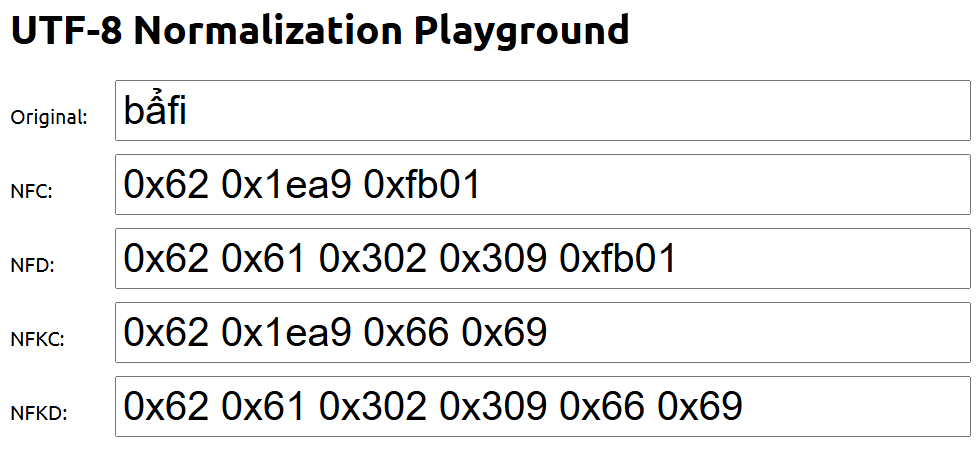
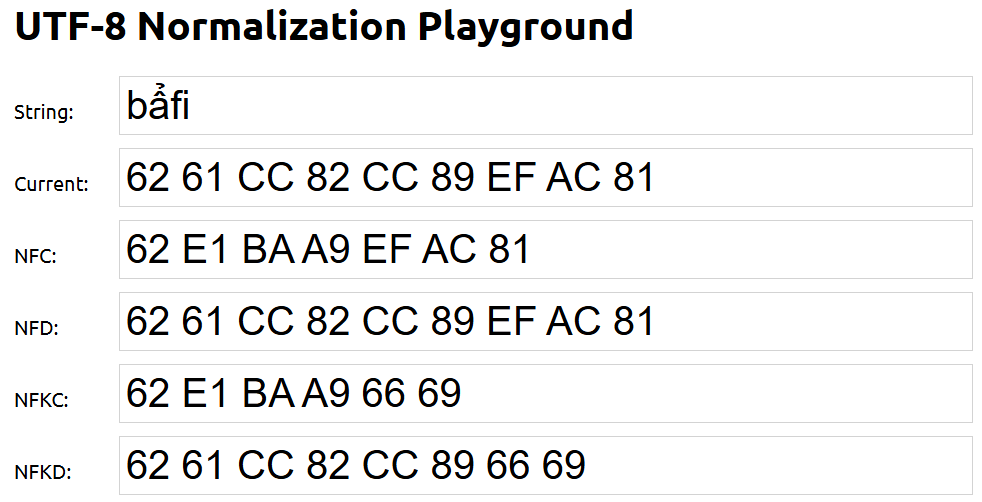
add github corner and style change

diff --git a/index.html b/index.html
@@ -12,18 +12,21 @@
             margin: 0 auto;
             padding: 20px;
         }
-
         label {
             display: inline-block;
             width: 5rem;
             margin-bottom: 10px;
         }
-
         input {
             width: 42rem;
             padding: 5px;
             margin-bottom: 10px;
             font-size: 2rem;
+            border: 1px solid lightgray
+        }
+        input:focus {
+            box-shadow: 0 0 14px 0px rgba(0, 0, 0, 0.1);
+            outline: none;
         }
     </style>
 </head>
@@ -35,44 +38,44 @@
         <input type="text" id="string" placeholder="Enter text here" value="bẩﬁ">
     </div>
     <div>
-        <label for="utf8">UTF-8:</label>
+        <label for="utf8">Current:</label>
         <input type="text" id="utf8" placeholder="UTF-8 bytes">
     </div>
     <div>
         <label for="nfc">NFC:</label>
-        <input type="text" id="nfc">
+        <input type="text" id="nfc" placeholder="UTF-8 bytes">
     </div>
     <div>
         <label for="nfd">NFD:</label>
-        <input type="text" id="nfd">
+        <input type="text" id="nfd" placeholder="UTF-8 bytes">
     </div>
     <div>
         <label for="nfkc">NFKC:</label>
-        <input type="text" id="nfkc">
+        <input type="text" id="nfkc" placeholder="UTF-8 bytes">
     </div>
     <div>
         <label for="nfkd">NFKD:</label>
-        <input type="text" id="nfkd">
+        <input type="text" id="nfkd" placeholder="UTF-8 bytes">
     </div>
 
     <script>
+        // Convert a string to UTF-8 hex
         function stringToUtf8Hex(str) {
             return Array.from(new TextEncoder().encode(str))
                 .map(byte => byte.toString(16).padStart(2, '0').toUpperCase())
                 .join(' ');
         }
-
+        // Convert UTF-8 hex to a string
         function utf8HexToString(hex) {
             const bytes = hex.trim().split(/\s+/).map(byte => parseInt(byte, 16));
             return new TextDecoder().decode(new Uint8Array(bytes));
         }
-
+        // Update the fields on input change
         function updateFields(source) {
             const fields = ['string', 'utf8', 'nfd', 'nfc', 'nfkd', 'nfkc'];
             // Get the value of the source field
             const sourceValue = document.getElementById(source).value;
             let sourceText;
-
             if (source === 'string') {
                 sourceText = sourceValue;
             } else {
@@ -102,16 +105,17 @@
                 }
             });
         }
-
-
+        // Add event listener to all input fields
         document.querySelectorAll('input').forEach(input => {
             input.addEventListener('input', function () {
                 updateFields(this.id);
             });
         });
-
+        // Initialize the fields
         updateFields('string');
     </script>
+    <!-- The GitHub corner -->
+    <a href="https://github.com/kpym/utf8playground" class="github-corner" aria-label="View source on GitHub"><svg width="80" height="80" viewBox="0 0 250 250" style="fill:#AAAADD; color:#fff; position: absolute; top: 0; border: 0; right: 0;" aria-hidden="true"><path d="M0,0 L115,115 L130,115 L142,142 L250,250 L250,0 Z"></path><path d="M128.3,109.0 C113.8,99.7 119.0,89.6 119.0,89.6 C122.0,82.7 120.5,78.6 120.5,78.6 C119.2,72.0 123.4,76.3 123.4,76.3 C127.3,80.9 125.5,87.3 125.5,87.3 C122.9,97.6 130.6,101.9 134.4,103.2" fill="currentColor" style="transform-origin: 130px 106px;" class="octo-arm"></path><path d="M115.0,115.0 C114.9,115.1 118.7,116.5 119.8,115.4 L133.7,101.6 C136.9,99.2 139.9,98.4 142.2,98.6 C133.8,88.0 127.5,74.4 143.8,58.0 C148.5,53.4 154.0,51.2 159.7,51.0 C160.3,49.4 163.2,43.6 171.4,40.1 C171.4,40.1 176.1,42.5 178.8,56.2 C183.1,58.6 187.2,61.8 190.9,65.4 C194.5,69.0 197.7,73.2 200.1,77.6 C213.8,80.2 216.3,84.9 216.3,84.9 C212.7,93.1 206.9,96.0 205.4,96.6 C205.1,102.4 203.0,107.8 198.3,112.5 C181.9,128.9 168.3,122.5 157.7,114.1 C157.9,116.9 156.7,120.9 152.7,124.9 L141.0,136.5 C139.8,137.7 141.6,141.9 141.8,141.8 Z" fill="currentColor" class="octo-body"></path><style>.github-corner:hover .octo-arm{animation:octocat-wave 560ms ease-in-out}@keyframes octocat-wave{0%,100%{transform:rotate(0)}20%,60%{transform:rotate(-25deg)}40%,80%{transform:rotate(10deg)}}@media (max-width:500px){.github-corner:hover .octo-arm{animation:none}.github-corner .octo-arm{animation:octocat-wave 560ms ease-in-out}}</style></svg></a>
 </body>
 
 </html>
